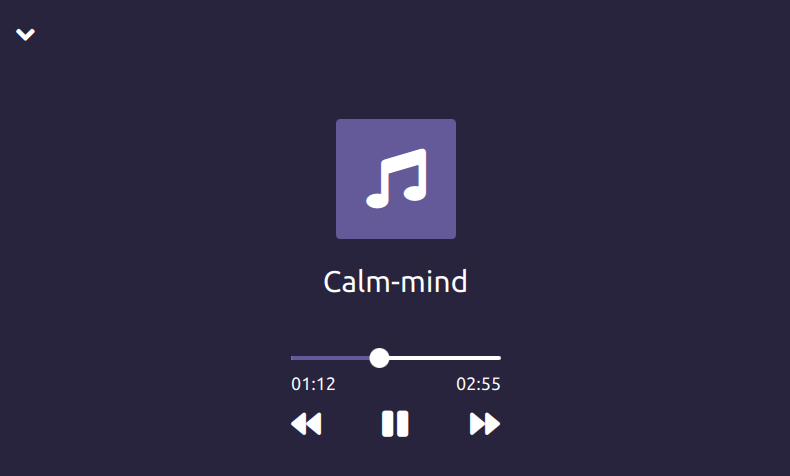
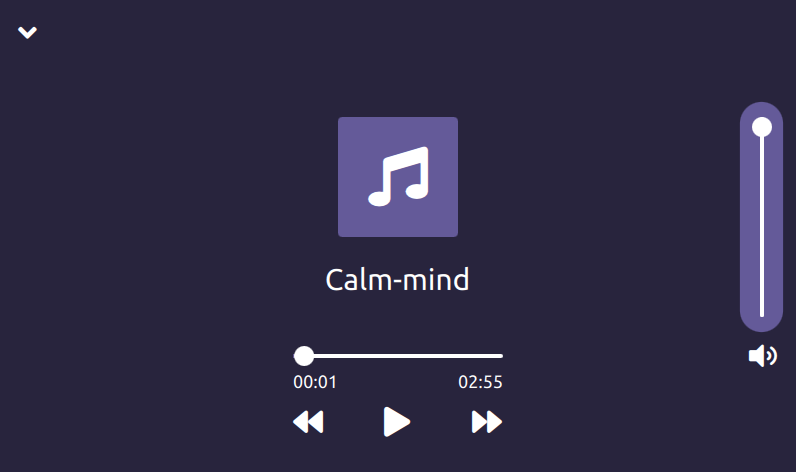
Volume control
* added in player screen

diff --git a/resources/qml/PlayerScreen.qml b/resources/qml/PlayerScreen.qml
@@ -191,6 +191,38 @@ Rectangle {
         }
     }
 
+    TextControl {
+        id: soundIcon
+        anchors.right: parent.right
+        anchors.rightMargin: DefaultTheme.margins
+        anchors.verticalCenter: slider.verticalCenter
+        font.family: mainWindow.fontName
+        font.pixelSize: DefaultTheme.fontSizeL
+        text: "\uf6a8"
+        onClicked: {
+            volumeControl.displacement = volumeControl.width * 0.42;
+            closeVolumeTimer.start();
+        }
+    }
+
+    SliderControl {
+        id: volumeControl
+        anchors.right: parent.right
+        anchors.rightMargin: DefaultTheme.margins - displacement
+        anchors.verticalCenter: parent.verticalCenter
+        anchors.verticalCenterOffset: -DefaultTheme.margins
+        rotation: -90
+        showContainer: true
+        onValueChanged: {
+            mediaPlayer.volume = volumeControl.value;
+            closeVolumeTimer.restart();
+        }
+
+        property real displacement: volumeControl.width
+
+        Behavior on displacement { NumberAnimation { duration: 400 } }
+    }
+
     Connections {
         target: app
 
@@ -206,6 +238,18 @@ Rectangle {
         onTriggered: {
             root.stopped();
         }
+    }
+
+    Timer {
+        id: closeVolumeTimer
+        interval: 5000
+        onTriggered: {
+            volumeControl.displacement = volumeControl.width;
+        }
+    }
+
+    Component.onCompleted: {
+        volumeControl.value = mediaPlayer.volume
     }
 
     function updateTime() {

diff --git a/resources/qml/Controls/SliderControl.qml b/resources/qml/Controls/SliderControl.qml
@@ -7,6 +7,8 @@ Slider {
     id: control
     padding: 0
 
+    property bool showContainer: false
+
     background: Rectangle {
         x: control.leftPadding
         y: control.topPadding + control.availableHeight / 2 - height / 2
@@ -20,7 +22,7 @@ Slider {
         Rectangle {
             width: control.visualPosition * parent.width
             height: parent.height
-            color: DefaultTheme.primaryColor
+            color: control.showContainer ? DefaultTheme.textColor : DefaultTheme.primaryColor
             radius: 2
         }
     }
@@ -32,5 +34,15 @@ Slider {
         implicitHeight: 20
         radius: 10
         color: DefaultTheme.textColor
+    }
+
+    Rectangle {
+        anchors.centerIn: parent
+        width: control.width + height * 0.7
+        height: DefaultTheme.buttonHeight * 1.2
+        radius: height * 0.5
+        color: DefaultTheme.primaryColor
+        z: parent.z - 1
+        visible: control.showContainer
     }
 }
